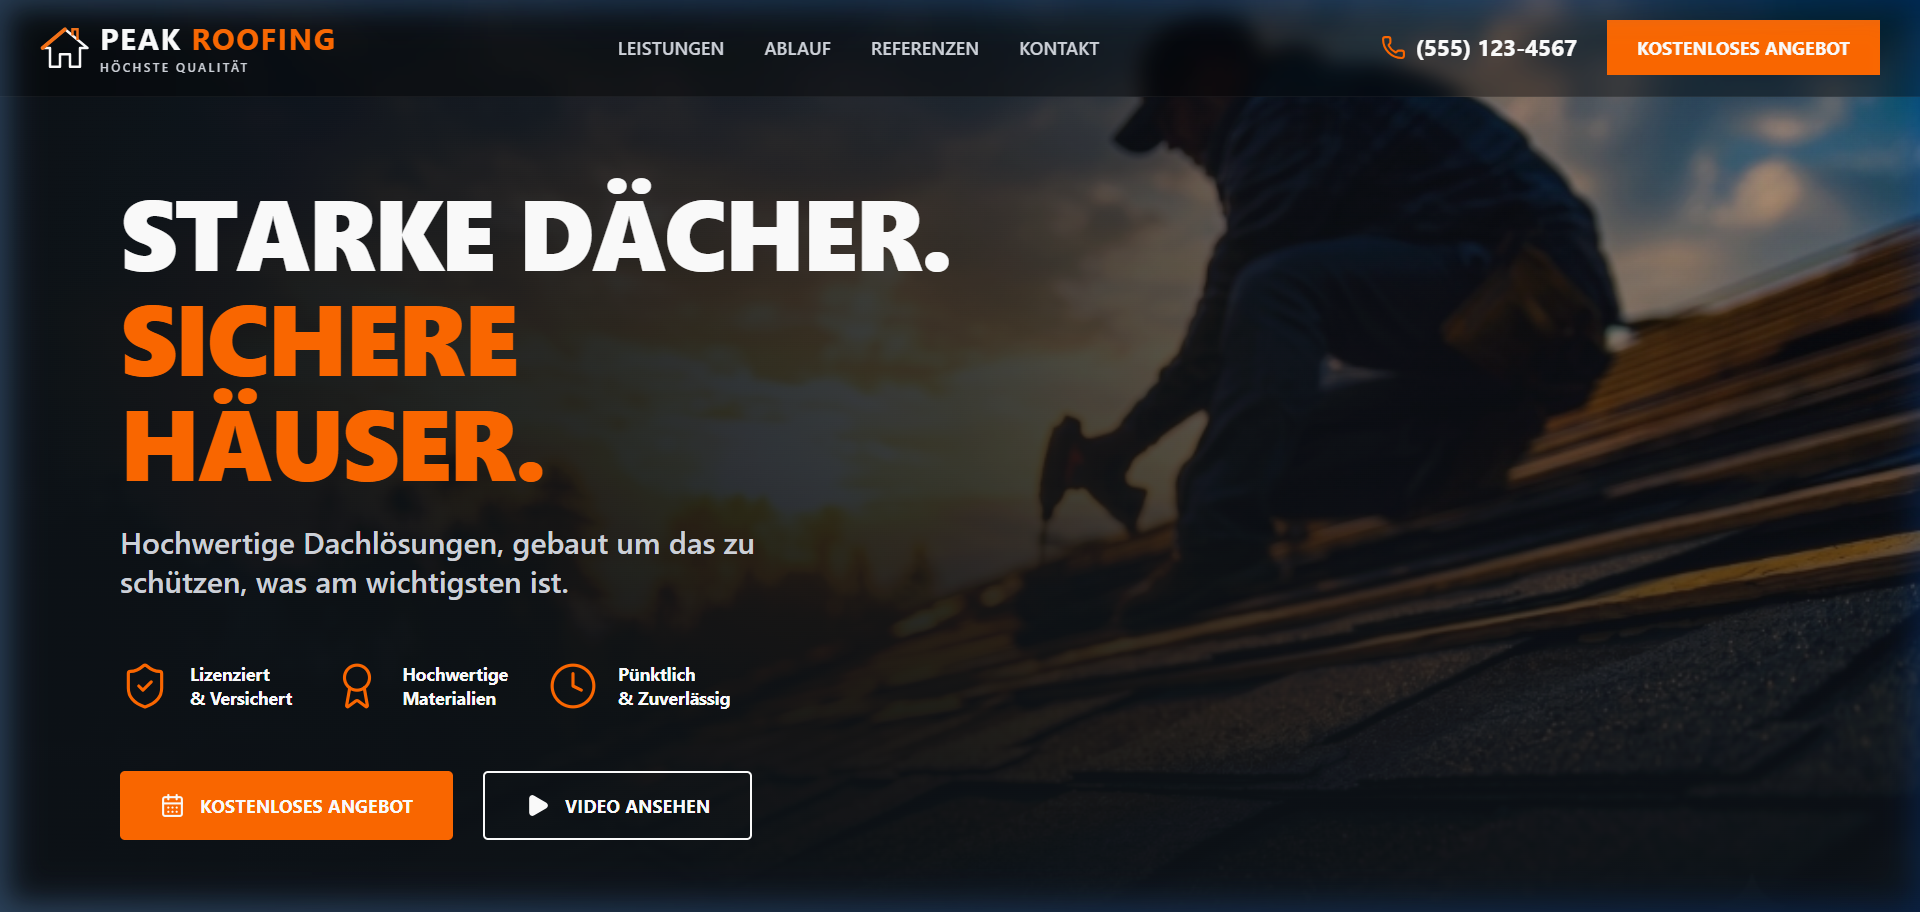
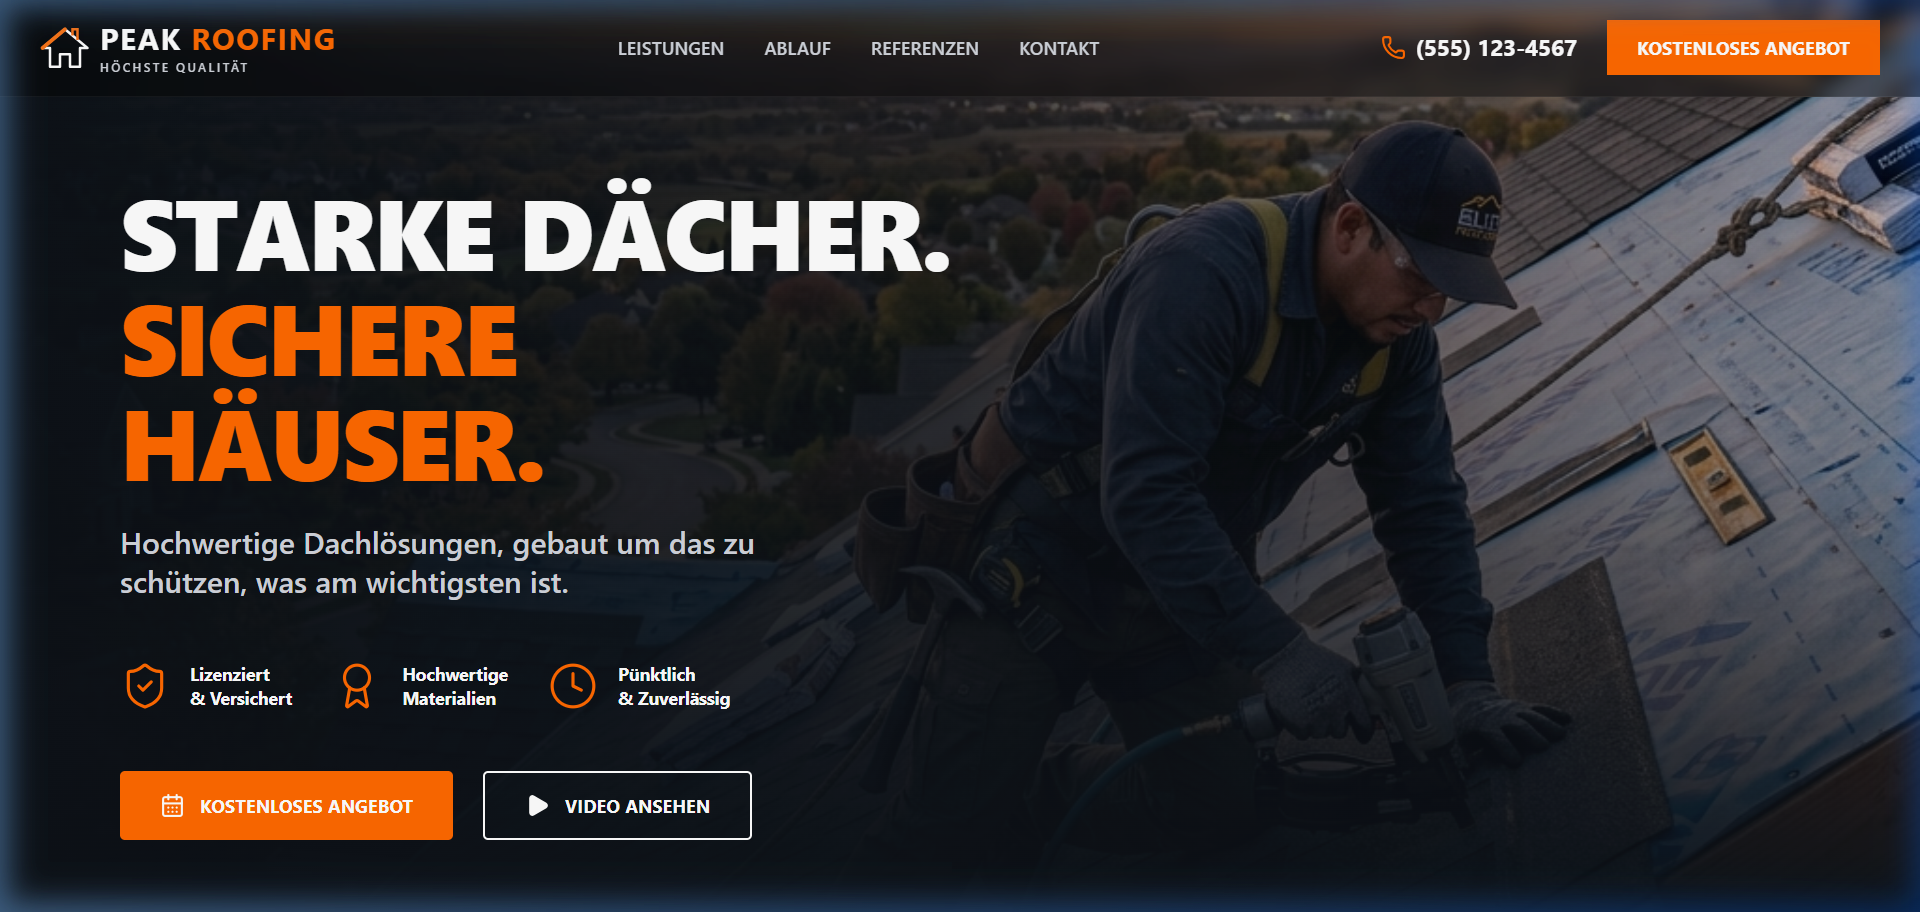
Replace background with sharp, low-blur PNG, adjust background position to center worker, and push updates

diff --git a/src/App.tsx b/src/App.tsx
@@ -13,8 +13,8 @@ export default function App() {
       <div 
         className="absolute inset-0 z-0 bg-cover bg-no-repeat"
         style={{
-          backgroundImage: 'url("/roof-bg.jpg")',
-          backgroundPosition: 'right 5% top',
+          backgroundImage: 'url("/roof-bg.png")',
+          backgroundPosition: '90% 60%',
         }}
       >
         <div className="absolute inset-0 bg-gradient-to-r from-[#0d131a] via-[#0d131a]/70 to-transparent"></div>